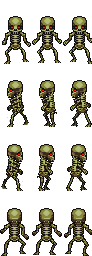
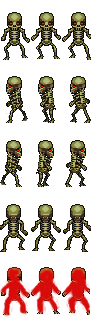
Added skeleton onhit frame

diff --git a/src/classes/Enemies/Skeleton.js b/src/classes/Enemies/Skeleton.js
@@ -48,6 +48,14 @@ export default class Skeleton extends Phaser.Physics.Arcade.Sprite {
         }),
         frameRate: 10,
       });
+    this.skeleton.anims.create({
+      key: "skeletonHit",
+      frames: this.anims.generateFrameNumbers(SKELETON_KEY, {
+        start: 12,
+        end: 14,
+      }),
+      frameRate: 10,
+    });
   }
   initEvents() {
     this.scene.events.on(Phaser.Scenes.Events.UPDATE, this.update, this);
@@ -62,7 +70,9 @@ export default class Skeleton extends Phaser.Physics.Arcade.Sprite {
       ) {
         if (this.player.x < this.skeleton.x) {
           this.skeleton.setVelocityX(-50);
-          this.skeleton.anims.play("skeleton-left", true);
+          // this.skeleton.anims.play("skeleton-left", true);
+          //Add skeletonhit for now for demo purposes but revert back to above after
+          this.skeleton.anims.play("skeletonHit", true);
         } else {
           this.skeleton.setVelocityX(50);
           this.skeleton.anims.play("skeleton-right", true);
